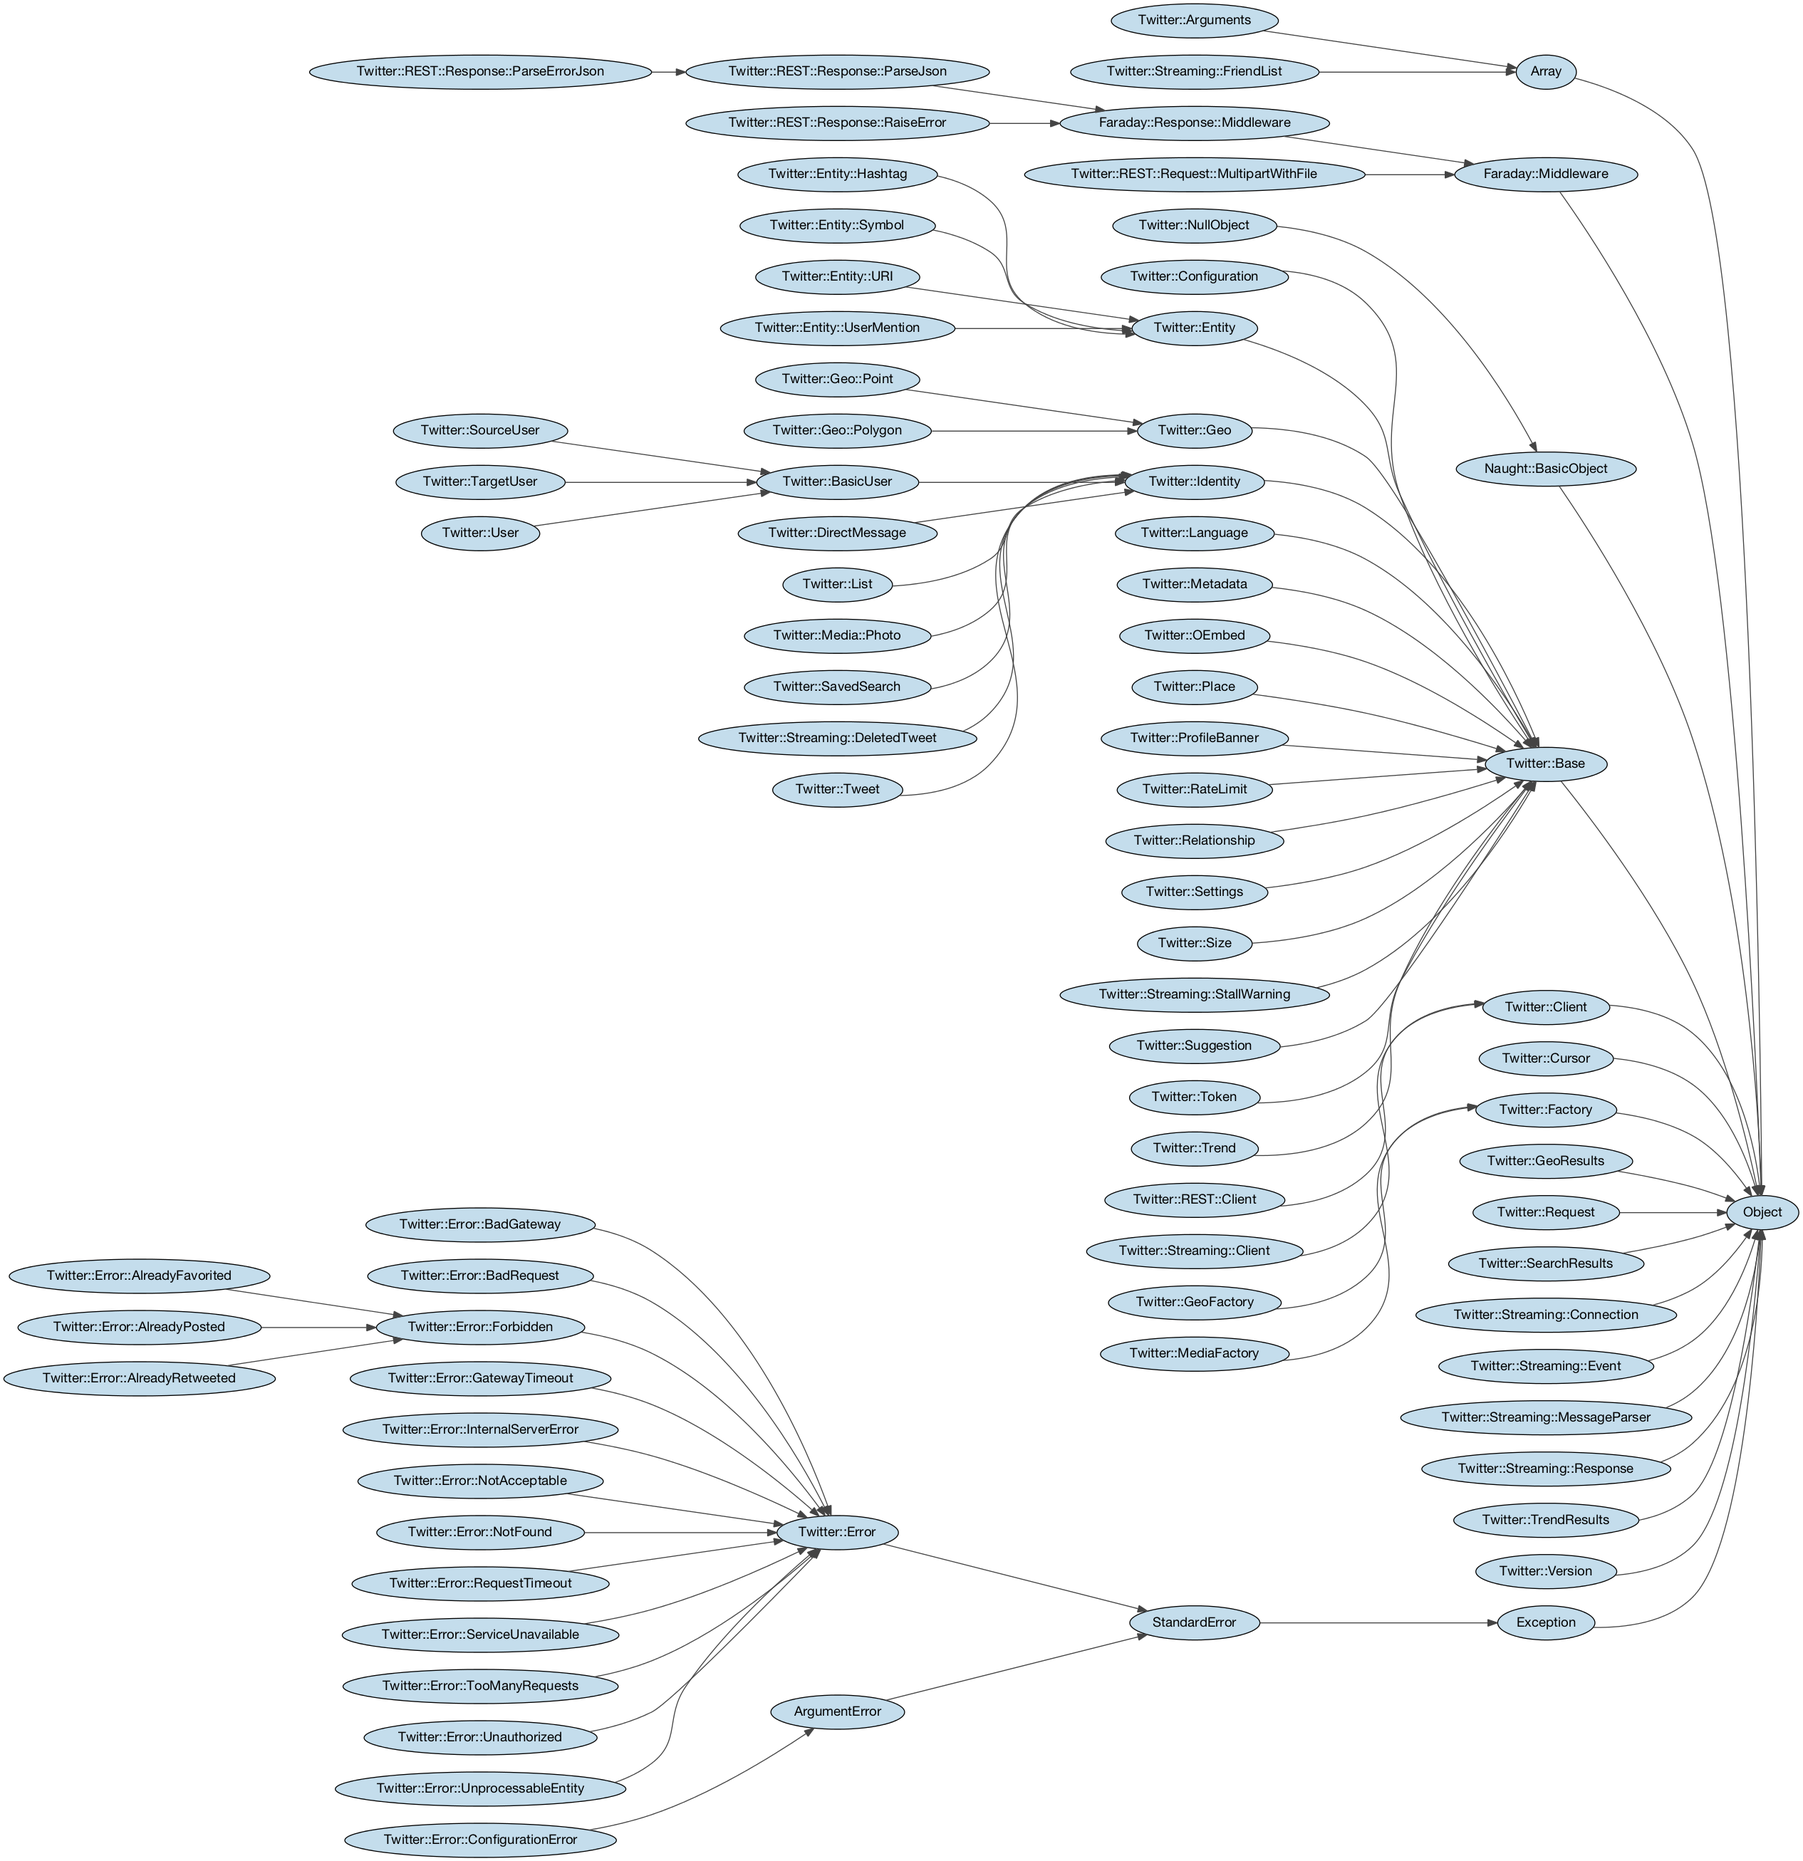
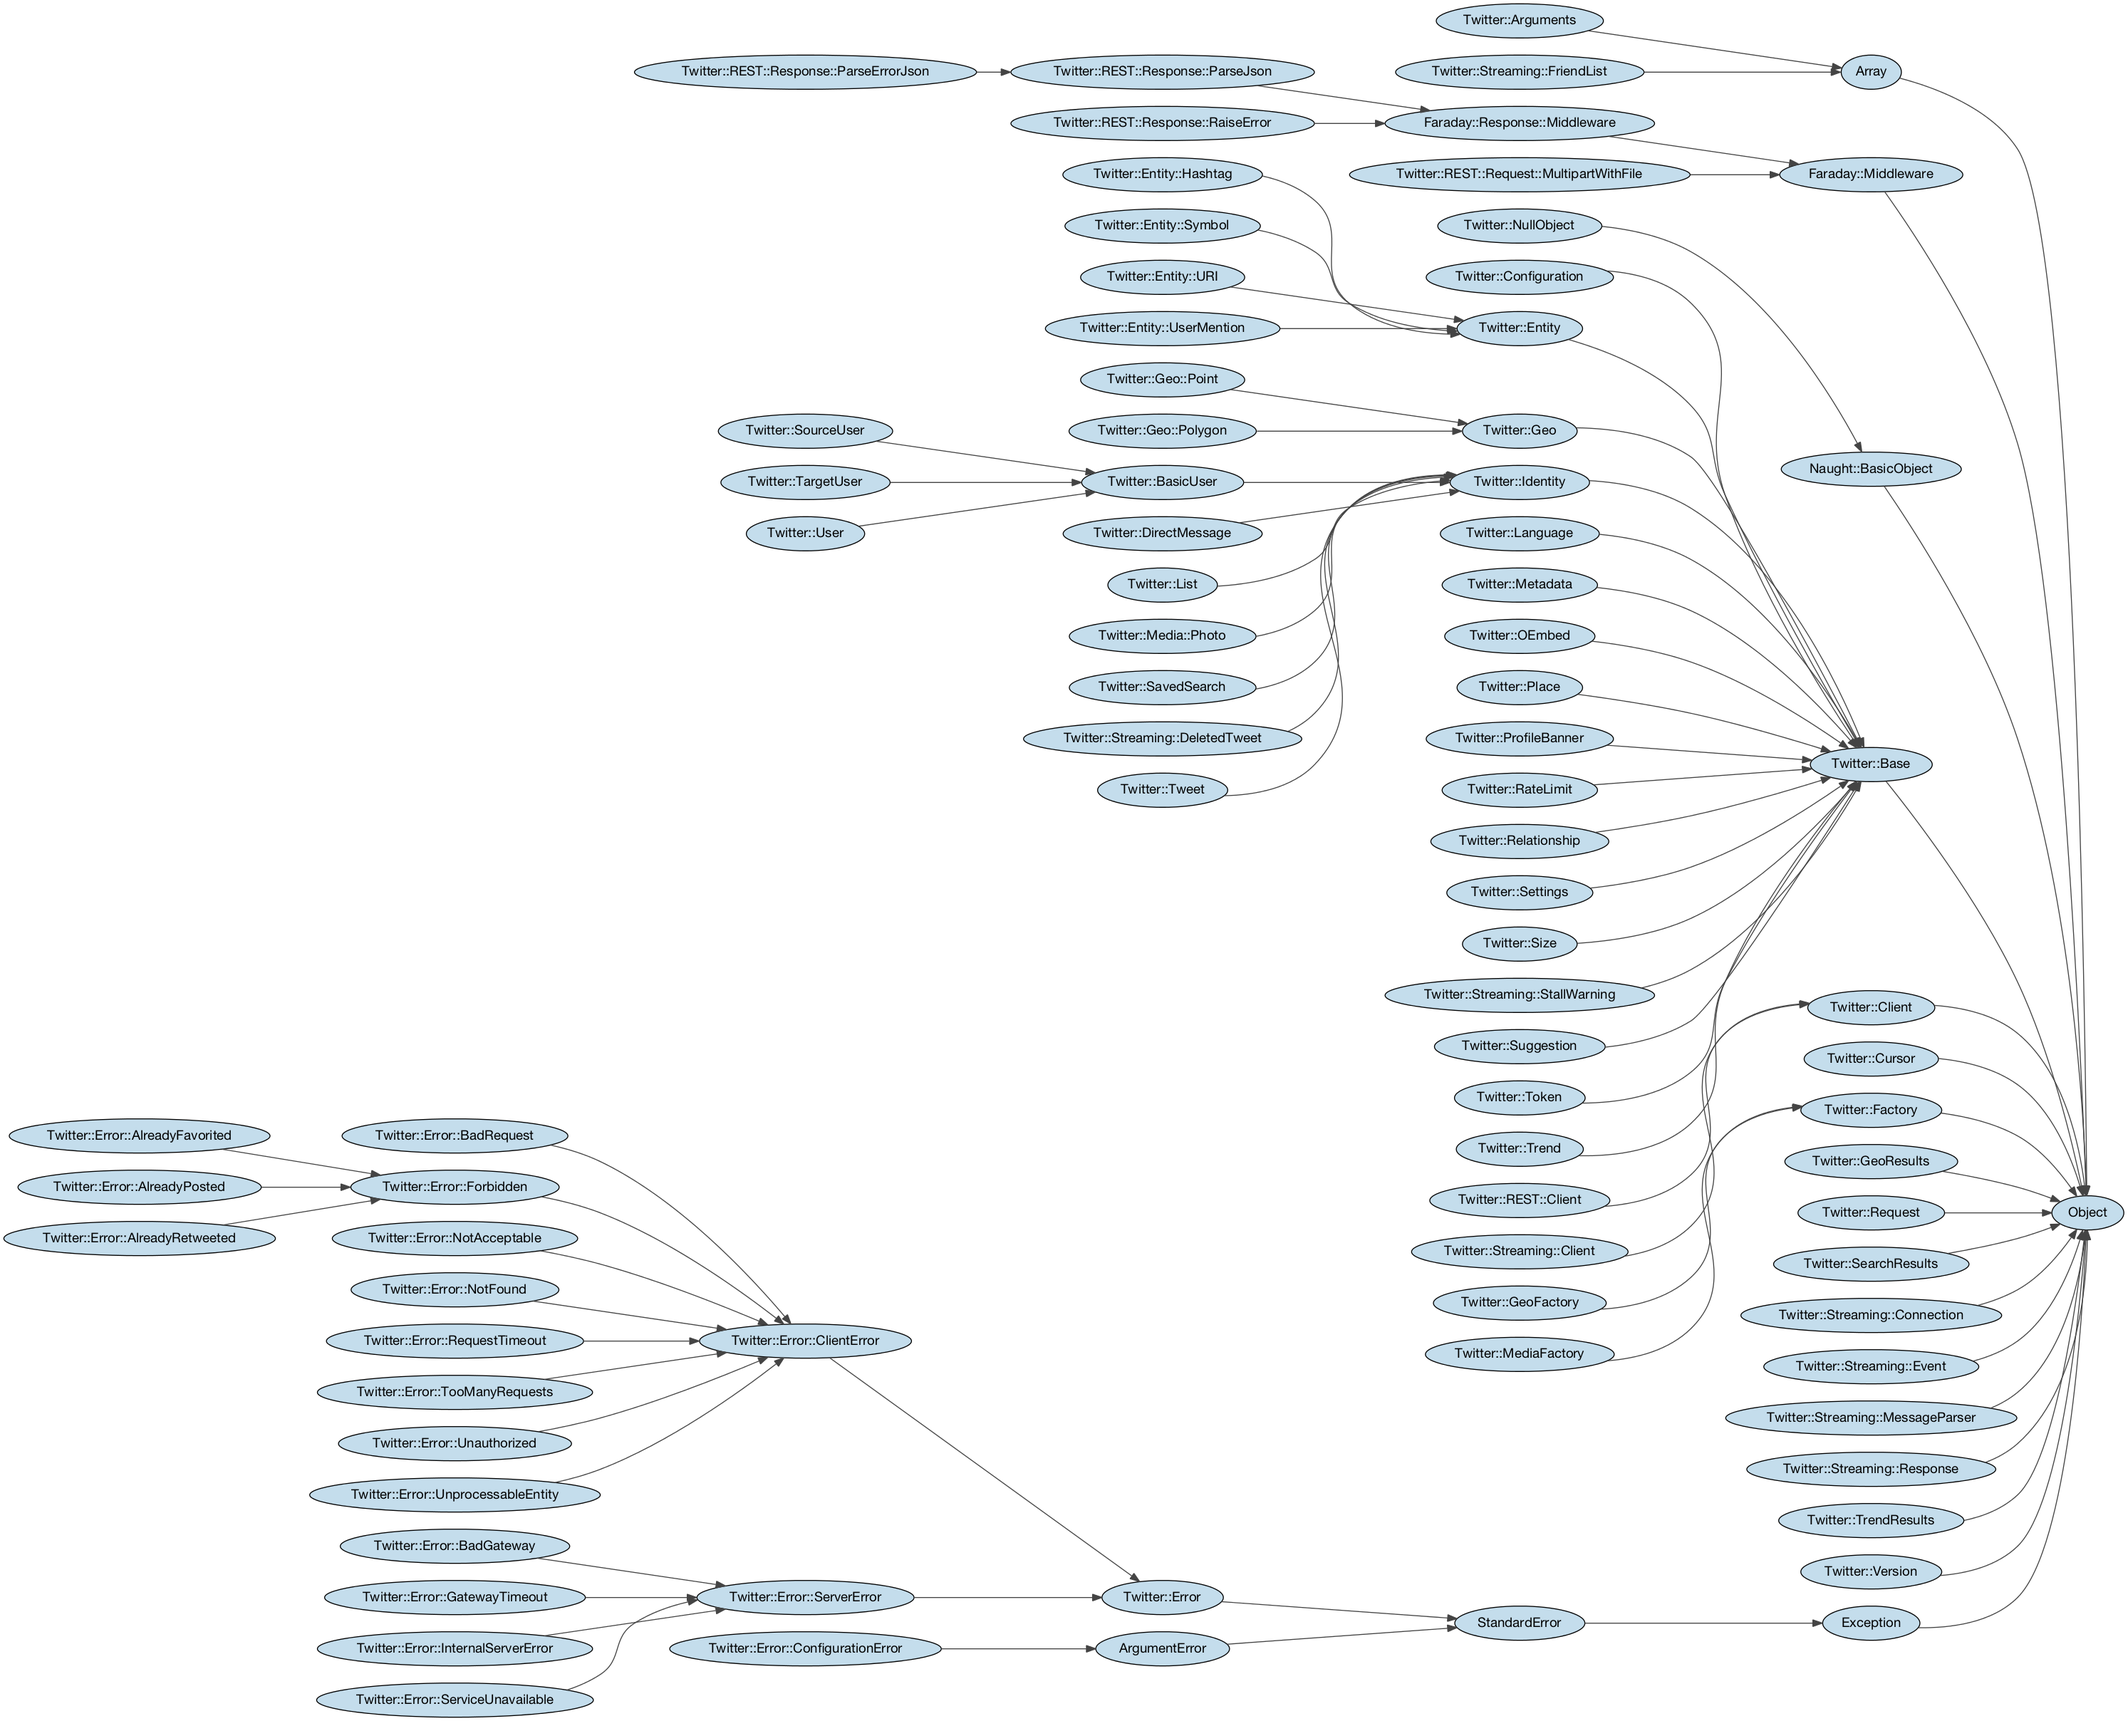
Move simple error classes into error.rb

diff --git a/lib/twitter/error.rb b/lib/twitter/error.rb
@@ -7,7 +7,7 @@ module Twitter
     alias_method :wrapped_exception, :cause
 
     # If error code is missing see https://dev.twitter.com/docs/error-codes-responses
-    module Codes
+    module Code
       AUTHENTICATION_PROBLEM       = 32
       RESOURCE_NOT_FOUND           = 34
       SUSPENDED_ACCOUNT            = 64
@@ -18,6 +18,7 @@ module Twitter
       OVER_CAPACITY                = 130
       INTERNAL_ERROR               = 131
       OAUTH_TIMESTAMP_OUT_OF_RANGE = 135
+      ALREADY_FAVORITED            = 139
       FOLLOW_ALREADY_REQUESTED     = 160
       FOLLOW_LIMIT_EXCEEDED        = 161
       PROTECTED_STATUS             = 179
@@ -27,6 +28,7 @@ module Twitter
       LOGIN_VERIFICATION_NEEDED    = 231
       ENDPOINT_RETIRED             = 251
     end
+    Codes = Code # rubocop:disable ConstantName
 
     class << self
       # Create a new error from an HTTP response
@@ -46,6 +48,7 @@ module Twitter
           403 => Twitter::Error::Forbidden,
           404 => Twitter::Error::NotFound,
           406 => Twitter::Error::NotAcceptable,
+          408 => Twitter::Error::RequestTimeout,
           422 => Twitter::Error::UnprocessableEntity,
           429 => Twitter::Error::TooManyRequests,
           500 => Twitter::Error::InternalServerError,
@@ -89,5 +92,66 @@ module Twitter
       @code = code
       exception.respond_to?(:message) ? super(exception.message) : super(exception.to_s)
     end
+
+    class ConfigurationError < ::ArgumentError; end
+
+    # Raised when Twitter returns a 4xx HTTP status code
+    class ClientError < self; end
+
+    # Raised when Twitter returns the HTTP status code 400
+    class BadRequest < ClientError; end
+
+    # Raised when Twitter returns the HTTP status code 401
+    class Unauthorized < ClientError; end
+
+    # Raised when Twitter returns the HTTP status code 403
+    class Forbidden < ClientError; end
+
+    # Raised when a Tweet has already been favorited
+    class AlreadyFavorited < Forbidden
+      MESSAGE = 'You have already favorited this status.'
+    end
+
+    # Raised when a Tweet has already been posted
+    class AlreadyPosted < Forbidden
+      MESSAGE = 'Status is a duplicate.'
+    end
+
+    # Raised when a Tweet has already been retweeted
+    class AlreadyRetweeted < Forbidden
+      MESSAGE = 'sharing is not permissible for this status (Share validations failed)'
+    end
+
+    # Raised when Twitter returns the HTTP status code 404
+    class NotFound < ClientError; end
+
+    # Raised when Twitter returns the HTTP status code 406
+    class NotAcceptable < ClientError; end
+
+    # Raised when Twitter returns the HTTP status code 408
+    class RequestTimeout < ClientError; end
+
+    # Raised when Twitter returns the HTTP status code 422
+    class UnprocessableEntity < ClientError; end
+
+    # Raised when Twitter returns the HTTP status code 429
+    class TooManyRequests < ClientError; end
+    EnhanceYourCalm = TooManyRequests # rubocop:disable ConstantName
+    RateLimited = TooManyRequests # rubocop:disable ConstantName
+
+    # Raised when Twitter returns a 5xx HTTP status code
+    class ServerError < self; end
+
+    # Raised when Twitter returns the HTTP status code 500
+    class InternalServerError < ServerError; end
+
+    # Raised when Twitter returns the HTTP status code 502
+    class BadGateway < ServerError; end
+
+    # Raised when Twitter returns the HTTP status code 503
+    class ServiceUnavailable < ServerError; end
+
+    # Raised when Twitter returns the HTTP status code 504
+    class GatewayTimeout < ServerError; end
   end
 end

diff --git a/lib/twitter/rest/response/raise_error.rb b/lib/twitter/rest/response/raise_error.rb
@@ -1,15 +1,5 @@
 require 'faraday'
-require 'twitter/error/bad_gateway'
-require 'twitter/error/bad_request'
-require 'twitter/error/forbidden'
-require 'twitter/error/gateway_timeout'
-require 'twitter/error/internal_server_error'
-require 'twitter/error/not_acceptable'
-require 'twitter/error/not_found'
-require 'twitter/error/service_unavailable'
-require 'twitter/error/too_many_requests'
-require 'twitter/error/unauthorized'
-require 'twitter/error/unprocessable_entity'
+require 'twitter/error'
 
 module Twitter
   module REST

diff --git a/lib/twitter/client.rb b/lib/twitter/client.rb
@@ -59,7 +59,7 @@ module Twitter
     def validate_credential_type!
       credentials.each do |credential, value|
         next if value.nil?
-        fail(Error::ConfigurationError.new("Invalid #{credential} specified: #{value.inspect} must be a string or symbol.")) unless value.is_a?(String) || value.is_a?(Symbol)
+        fail(Twitter::Error::ConfigurationError.new("Invalid #{credential} specified: #{value.inspect} must be a string or symbol.")) unless value.is_a?(String) || value.is_a?(Symbol)
       end
     end
 

diff --git a/lib/twitter/rest/client.rb b/lib/twitter/rest/client.rb
@@ -5,8 +5,6 @@ require 'json'
 require 'timeout'
 require 'twitter/client'
 require 'twitter/error'
-require 'twitter/error/configuration_error'
-require 'twitter/error/request_timeout'
 require 'twitter/rest/api'
 require 'twitter/rest/request/multipart_with_file'
 require 'twitter/rest/response/parse_json'

diff --git a/lib/twitter/rest/tweets.rb b/lib/twitter/rest/tweets.rb
@@ -1,7 +1,5 @@
 require 'twitter/arguments'
-require 'twitter/error/already_posted'
-require 'twitter/error/already_retweeted'
-require 'twitter/error/forbidden'
+require 'twitter/error'
 require 'twitter/oembed'
 require 'twitter/request'
 require 'twitter/rest/utils'

diff --git a/lib/twitter/rest/lists.rb b/lib/twitter/rest/lists.rb
@@ -1,7 +1,6 @@
 require 'twitter/arguments'
 require 'twitter/cursor'
-require 'twitter/error/forbidden'
-require 'twitter/error/not_found'
+require 'twitter/error'
 require 'twitter/list'
 require 'twitter/request'
 require 'twitter/rest/utils'

diff --git a/lib/twitter/rest/favorites.rb b/lib/twitter/rest/favorites.rb
@@ -1,6 +1,5 @@
 require 'twitter/arguments'
-require 'twitter/error/already_favorited'
-require 'twitter/error/forbidden'
+require 'twitter/error'
 require 'twitter/request'
 require 'twitter/rest/utils'
 require 'twitter/tweet'

diff --git a/lib/twitter/rest/friends_and_followers.rb b/lib/twitter/rest/friends_and_followers.rb
@@ -1,6 +1,6 @@
 require 'twitter/arguments'
 require 'twitter/cursor'
-require 'twitter/error/forbidden'
+require 'twitter/error'
 require 'twitter/relationship'
 require 'twitter/request'
 require 'twitter/rest/utils'

diff --git a/lib/twitter/rest/users.rb b/lib/twitter/rest/users.rb
@@ -1,5 +1,5 @@
 require 'twitter/arguments'
-require 'twitter/error/not_found'
+require 'twitter/error'
 require 'twitter/profile_banner'
 require 'twitter/request'
 require 'twitter/rest/utils'
